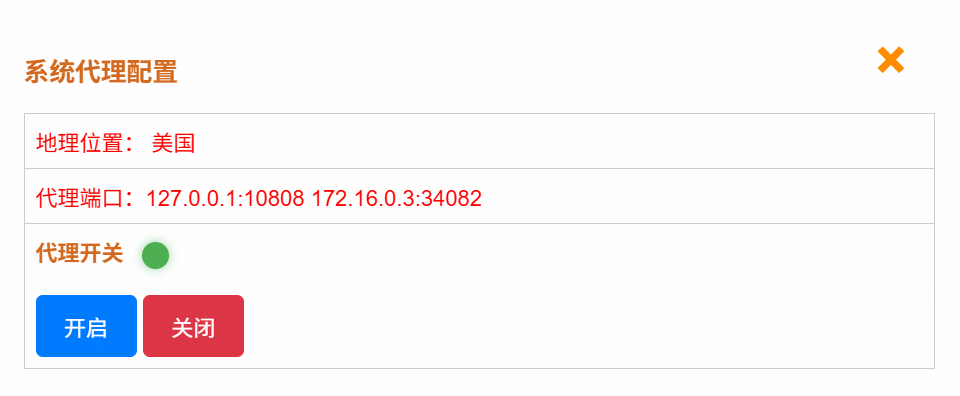
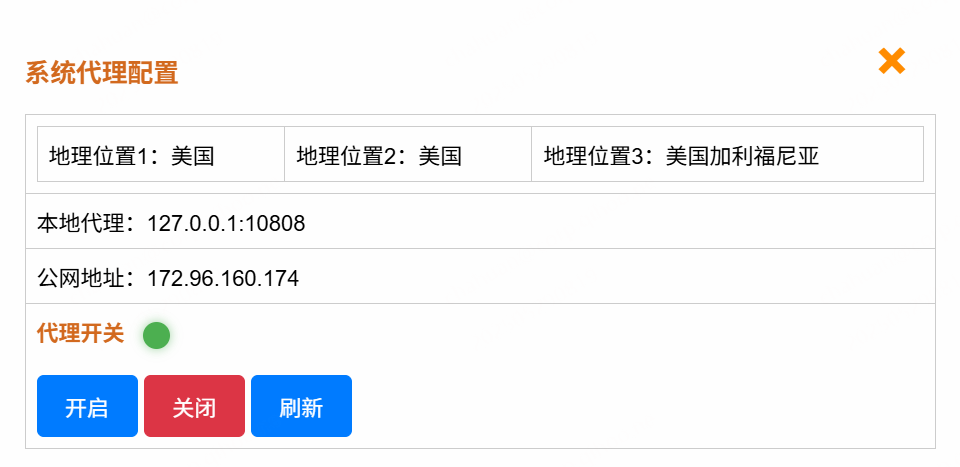
系统优化

diff --git a/static/js/common.js b/static/js/common.js
@@ -3257,8 +3257,12 @@ function opensystemproxyconffunc() {
         method: 'GET',
         success: function (info) {
             // 地理位置
-            document.getElementById('systemproxyid1').innerHTML = info.ip_location;
+            document.getElementById('systemproxyid1').innerHTML = info.ip_location1;
+            document.getElementById('systemproxyid6').innerHTML = info.ip_location2;
+            document.getElementById('systemproxyid7').innerHTML = info.ip_location3;
             document.getElementById('systemproxyid4').innerHTML = info.proxyport;
+            document.getElementById('systemproxyid5').innerHTML = info.public_ip_result;
+            
             // 代理状态
             const statusElement1 = document.getElementById('systemproxyid2');
             const status1 = info.proxystatus;
@@ -3289,8 +3293,11 @@ function opensystemproxycontrolfunc() {
 
         success: function (info) {
             // 地理位置
-            document.getElementById('systemproxyid1').innerHTML = info.ip_location;
+            document.getElementById('systemproxyid1').innerHTML = info.ip_location1;
+            document.getElementById('systemproxyid6').innerHTML = info.ip_location2;
+            document.getElementById('systemproxyid7').innerHTML = info.ip_location3;
             document.getElementById('systemproxyid4').innerHTML = info.proxyport;
+            document.getElementById('systemproxyid5').innerHTML = info.public_ip_result;
             // 代理状态
             const statusElement1 = document.getElementById('systemproxyid2');
             const status1 = info.proxystatus;
@@ -3321,8 +3328,11 @@ function stopdownsystemproxycontrolfunc() {
 
         success: function (info) {
             // 地理位置
-            document.getElementById('systemproxyid1').innerHTML = info.ip_location;
+            document.getElementById('systemproxyid1').innerHTML = info.ip_location1;
+            document.getElementById('systemproxyid6').innerHTML = info.ip_location2;
+            document.getElementById('systemproxyid7').innerHTML = info.ip_location3;
             document.getElementById('systemproxyid4').innerHTML = info.proxyport;
+            document.getElementById('systemproxyid5').innerHTML = info.public_ip_result;
             // 代理状态
             const statusElement1 = document.getElementById('systemproxyid2');
             const status1 = info.proxystatus;

diff --git a/templates/tanchuang.html b/templates/tanchuang.html
@@ -930,12 +930,30 @@
         <table border="1">
             <tr>
                 <td>
-                    <span id="systemproxyid1" style="color: red;"></span>
+                    <table border="1">
+                        <tr>
+                            <td>
+                                <span id="systemproxyid1"></span>
+                            </td>
+                            <td>
+                                <span id="systemproxyid6"></span>
+                            </td>
+                            <td>
+                                <span id="systemproxyid7"></span>
+                            </td>
+                        </tr>
+                    </table>
+                    
                 </td>
             </tr>
             <tr>
                 <td>
-                    <span id="systemproxyid4" style="color: red;"></span>
+                    <span id="systemproxyid4"></span>
+                </td>
+            </tr>
+            <tr>
+                <td>
+                    <span id="systemproxyid5"></span>
                 </td>
             </tr>
 
@@ -949,6 +967,7 @@
                     <br><br>
                     <button class="button edit-button" onclick="opensystemproxycontrolfunc()">开启</button>
                     <button class="button delete-button" onclick="stopdownsystemproxycontrolfunc()">关闭</button>
+                    <button class="button edit-button" onclick="opensystemproxyconffunc()">刷新</button>
                 </td>
             </tr>
         </table>

diff --git a/scan_main_web.py b/scan_main_web.py
@@ -6447,36 +6447,82 @@ def addglobalwhitedata():
         return render_template('login.html')
 
 
-# 系统代理查询
+# 打开系统代理页面
 @app.route("/showsystemproxyconf/",methods=['GET'])
 def showsystemproxyconf():
     user = session.get('username')
     if str(user) == main_username:
-        # 当前地理位置查询
-        try:
-            output = subprocess.check_output(["bash", "/TIP/info_scan/finger.sh","location3"], stderr=subprocess.DEVNULL)
-            output_list = output.decode().splitlines()
-            #定义列表
-            location_list = []
-            for ii in output_list:
-                if "地址" in ii:
-                    location_list.append(ii)
-            localtion_list_1 = location_list[0].replace("地址","")
-            localtion_list_result = "地理位置："+localtion_list_1.replace(":","")
-        except:
-            localtion_list_result = "地理位置："+"延迟较高"
-        
+
         # 代理服务状态查询
         proxystatus = os.popen('bash /TIP/info_scan/finger.sh systemproxystatus').read().strip()
-        # 代理端口
+        # 代理IP和端口
         if "已开启" == proxystatus:
-            proxyport = os.popen('bash /TIP/info_scan/finger.sh proxyipport').read()
+            # 代理公网地址位置1
+            try:
+                proxyaddresslocat1 = subprocess.check_output(["bash", "/TIP/info_scan/finger.sh","proxyipaddress1"], stderr=subprocess.DEVNULL)
+                proxyaddresslocat11 = proxyaddresslocat1.decode().splitlines()
+                proxyaddresslocat111 = "地理位置1："+str(proxyaddresslocat11[0])
+            except:
+                proxyaddresslocat111 = "地理位置1："+"延迟较高"
+
+            # 代理公网地址位置2
+            try:
+                proxyaddresslocat2 = subprocess.check_output(["bash", "/TIP/info_scan/finger.sh","proxyipaddress2"], stderr=subprocess.DEVNULL)
+                proxyaddresslocat22 = proxyaddresslocat2.decode().splitlines()
+                proxyaddresslocat222 = "地理位置2："+str(proxyaddresslocat22[0])
+            except:
+                proxyaddresslocat222 = "地理位置2："+"延迟较高"
+
+            # 代理公网地址位置3
+            try:
+                proxyaddresslocat3 = subprocess.check_output(["bash", "/TIP/info_scan/finger.sh","proxyipaddress3"], stderr=subprocess.DEVNULL)
+                proxyaddresslocat33 = proxyaddresslocat3.decode().splitlines()
+                proxyaddresslocat333 = "地理位置3："+str(proxyaddresslocat33[0])
+            except:
+                proxyaddresslocat333 = "地理位置3："+"延迟较高"
+
+            
+            # 本地代理
+            proxyport = os.popen('bash /TIP/info_scan/finger.sh proxyipport').read().splitlines()[0]
+            # 公网地址
+            public_ip = subprocess.check_output(["bash", "/TIP/info_scan/finger.sh","proxypublicip"], stderr=subprocess.DEVNULL)
+            public_ip1 = public_ip.decode().splitlines()
+            public_ip_result = str(public_ip1[0])
         else:
             proxyport = "代理服务已关闭"
+            public_ip_result = "代理服务已关闭"
+
+            # 公网地址位置1
+            try:
+                proxyaddresslocat1 = subprocess.check_output(["bash", "/TIP/info_scan/finger.sh","ipaddress1"], stderr=subprocess.DEVNULL)
+                proxyaddresslocat11 = proxyaddresslocat1.decode().splitlines()
+                proxyaddresslocat111 = "地理位置1："+str(proxyaddresslocat11[0])
+            except:
+                proxyaddresslocat111 = "地理位置1："+"延迟较高"
+
+            # 公网地址位置2
+            try:
+                proxyaddresslocat2 = subprocess.check_output(["bash", "/TIP/info_scan/finger.sh","ipaddress2"], stderr=subprocess.DEVNULL)
+                proxyaddresslocat22 = proxyaddresslocat2.decode().splitlines()
+                proxyaddresslocat222 = "地理位置2："+str(proxyaddresslocat22[0])
+            except:
+                proxyaddresslocat222 = "地理位置2："+"延迟较高"
+
+            # 公网地址位置3
+            try:
+                proxyaddresslocat3 = subprocess.check_output(["bash", "/TIP/info_scan/finger.sh","ipaddress3"], stderr=subprocess.DEVNULL)
+                proxyaddresslocat33 = proxyaddresslocat3.decode().splitlines()
+                proxyaddresslocat333 = "地理位置3："+str(proxyaddresslocat33[0])
+            except:
+                proxyaddresslocat333 = "地理位置3："+"延迟较高"
+
         message_json = {
-            "ip_location":localtion_list_result,
+            "ip_location1":str(proxyaddresslocat111),
+            "ip_location2":str(proxyaddresslocat222),
+            "ip_location3":str(proxyaddresslocat333),
             "proxystatus":str(proxystatus).strip(),
-            "proxyport":"代理端口："+str(proxyport).strip()
+            "proxyport":"本地代理："+str(proxyport).strip(),
+            "public_ip_result":"公网地址："+public_ip_result
         }
         return jsonify(message_json)
     else:
@@ -6494,29 +6540,72 @@ def startsystemproxyconf():
             print("请勿重复提交")
         else:
             os.popen('bash /TIP/info_scan/finger.sh startsystemproxy')
-        # 当前地理位置查询
-        try:
-            output = subprocess.check_output(["bash", "/TIP/info_scan/finger.sh","location3"], stderr=subprocess.DEVNULL)
-            output_list = output.decode().splitlines()
-            #定义列表
-            location_list = []
-            for ii in output_list:
-                if "地址" in ii:
-                    location_list.append(ii)
-            localtion_list_1 = location_list[0].replace("地址","")
-            localtion_list_result = "地理位置："+localtion_list_1.replace(":","")
-        except:
-            localtion_list_result = "地理位置："+"延迟较高"
-        # 代理端口
+
+        # 代理IP端口
         if "已开启" == proxystatus:
-            proxyport = os.popen('bash /TIP/info_scan/finger.sh proxyipport').read()
+            proxyport = os.popen('bash /TIP/info_scan/finger.sh proxyipport').read().splitlines()[0]
+            public_ip = subprocess.check_output(["bash", "/TIP/info_scan/finger.sh","proxypublicip"], stderr=subprocess.DEVNULL)
+            public_ip1 = public_ip.decode().splitlines()
+            public_ip_result = str(public_ip1[0])
+
+            # 代理公网地址位置1
+            try:
+                proxyaddresslocat1 = subprocess.check_output(["bash", "/TIP/info_scan/finger.sh","proxyipaddress1"], stderr=subprocess.DEVNULL)
+                proxyaddresslocat11 = proxyaddresslocat1.decode().splitlines()
+                proxyaddresslocat111 = "地理位置1："+str(proxyaddresslocat11[0])
+            except:
+                proxyaddresslocat111 = "地理位置1："+"延迟较高"
+
+            # 代理公网地址位置2
+            try:
+                proxyaddresslocat2 = subprocess.check_output(["bash", "/TIP/info_scan/finger.sh","proxyipaddress2"], stderr=subprocess.DEVNULL)
+                proxyaddresslocat22 = proxyaddresslocat2.decode().splitlines()
+                proxyaddresslocat222 = "地理位置2："+str(proxyaddresslocat22[0])
+            except:
+                proxyaddresslocat222 = "地理位置2："+"延迟较高"
+
+            # 代理公网地址位置3
+            try:
+                proxyaddresslocat3 = subprocess.check_output(["bash", "/TIP/info_scan/finger.sh","proxyipaddress3"], stderr=subprocess.DEVNULL)
+                proxyaddresslocat33 = proxyaddresslocat3.decode().splitlines()
+                proxyaddresslocat333 = "地理位置3："+str(proxyaddresslocat33[0])
+            except:
+                proxyaddresslocat333 = "地理位置3："+"延迟较高"
         else:
             proxyport = "代理服务已关闭"
-        proxystatus = os.popen('bash /TIP/info_scan/finger.sh systemproxystatus').read()
+            public_ip_result = "代理服务已关闭"
+            # 公网地址位置1
+            try:
+                proxyaddresslocat1 = subprocess.check_output(["bash", "/TIP/info_scan/finger.sh","ipaddress1"], stderr=subprocess.DEVNULL)
+                proxyaddresslocat11 = proxyaddresslocat1.decode().splitlines()
+                proxyaddresslocat111 = "地理位置1："+str(proxyaddresslocat11[0])
+            except:
+                proxyaddresslocat111 = "地理位置1："+"延迟较高"
+
+            # 公网地址位置2
+            try:
+                proxyaddresslocat2 = subprocess.check_output(["bash", "/TIP/info_scan/finger.sh","ipaddress2"], stderr=subprocess.DEVNULL)
+                proxyaddresslocat22 = proxyaddresslocat2.decode().splitlines()
+                proxyaddresslocat222 = "地理位置2："+str(proxyaddresslocat22[0])
+            except:
+                proxyaddresslocat222 = "地理位置2："+"延迟较高"
+
+            # 公网地址位置3
+            try:
+                proxyaddresslocat3 = subprocess.check_output(["bash", "/TIP/info_scan/finger.sh","ipaddress3"], stderr=subprocess.DEVNULL)
+                proxyaddresslocat33 = proxyaddresslocat3.decode().splitlines()
+                proxyaddresslocat333 = "地理位置3："+str(proxyaddresslocat33[0])
+            except:
+                proxyaddresslocat333 = "地理位置3："+"延迟较高"
+        # proxystatus = os.popen('bash /TIP/info_scan/finger.sh systemproxystatus').read()
+            
         message_json = {
-            "ip_location":localtion_list_result,
+            "ip_location1":str(proxyaddresslocat111),
+            "ip_location2":str(proxyaddresslocat222),
+            "ip_location3":str(proxyaddresslocat333),
             "proxystatus":str(proxystatus).strip(),
-            "proxyport":"代理端口："+str(proxyport).strip()
+            "proxyport":"本地代理："+str(proxyport).strip(),
+            "public_ip_result":"公网地址："+public_ip_result
         }
         return jsonify(message_json)
     else:
@@ -6529,6 +6618,7 @@ def stopdownsystemproxyconf():
     user = session.get('username')
     if str(user) == main_username:
         os.popen('bash /TIP/info_scan/finger.sh stopsystemproxy')
+        proxystatus = os.popen('bash /TIP/info_scan/finger.sh systemproxystatus').read()
          # 当前地理位置查询
         try:
             output = subprocess.check_output(["bash", "/TIP/info_scan/finger.sh","location3"], stderr=subprocess.DEVNULL)
@@ -6542,16 +6632,70 @@ def stopdownsystemproxyconf():
             localtion_list_result = "地理位置："+localtion_list_1.replace(":","")
         except:
             localtion_list_result = "地理位置："+"延迟较高"
-        proxystatus = os.popen('bash /TIP/info_scan/finger.sh systemproxystatus').read()
-        # 代理端口
+
+        # 代理IP和端口显示
         if "已开启" == proxystatus:
-            proxyport = os.popen('bash /TIP/info_scan/finger.sh proxyipport').read()
+            proxyport = os.popen('bash /TIP/info_scan/finger.sh proxyipport').read().splitlines()[0]
+            public_ip = subprocess.check_output(["bash", "/TIP/info_scan/finger.sh","proxypublicip"], stderr=subprocess.DEVNULL)
+            public_ip1 = public_ip.decode().splitlines()
+            public_ip_result = str(public_ip1[0])
+            # 代理公网地址位置1
+            try:
+                proxyaddresslocat1 = subprocess.check_output(["bash", "/TIP/info_scan/finger.sh","proxyipaddress1"], stderr=subprocess.DEVNULL)
+                proxyaddresslocat11 = proxyaddresslocat1.decode().splitlines()
+                proxyaddresslocat111 = "地理位置1："+str(proxyaddresslocat11[0])
+            except:
+                proxyaddresslocat111 = "地理位置1："+"延迟较高"
+
+            # 代理公网地址位置2
+            try:
+                proxyaddresslocat2 = subprocess.check_output(["bash", "/TIP/info_scan/finger.sh","proxyipaddress2"], stderr=subprocess.DEVNULL)
+                proxyaddresslocat22 = proxyaddresslocat2.decode().splitlines()
+                proxyaddresslocat222 = "地理位置2："+str(proxyaddresslocat22[0])
+            except:
+                proxyaddresslocat222 = "地理位置2："+"延迟较高"
+
+            # 代理公网地址位置3
+            try:
+                proxyaddresslocat3 = subprocess.check_output(["bash", "/TIP/info_scan/finger.sh","proxyipaddress3"], stderr=subprocess.DEVNULL)
+                proxyaddresslocat33 = proxyaddresslocat3.decode().splitlines()
+                proxyaddresslocat333 = "地理位置3："+str(proxyaddresslocat33[0])
+            except:
+                proxyaddresslocat333 = "地理位置3："+"延迟较高"
         else:
             proxyport = "代理服务已关闭"
+            public_ip_result = "代理服务已关闭"
+            # 公网地址位置1
+            try:
+                proxyaddresslocat1 = subprocess.check_output(["bash", "/TIP/info_scan/finger.sh","ipaddress1"], stderr=subprocess.DEVNULL)
+                proxyaddresslocat11 = proxyaddresslocat1.decode().splitlines()
+                proxyaddresslocat111 = "地理位置1："+str(proxyaddresslocat11[0])
+            except:
+                proxyaddresslocat111 = "地理位置1："+"延迟较高"
+
+            # 公网地址位置2
+            try:
+                proxyaddresslocat2 = subprocess.check_output(["bash", "/TIP/info_scan/finger.sh","ipaddress2"], stderr=subprocess.DEVNULL)
+                proxyaddresslocat22 = proxyaddresslocat2.decode().splitlines()
+                proxyaddresslocat222 = "地理位置2："+str(proxyaddresslocat22[0])
+            except:
+                proxyaddresslocat222 = "地理位置2："+"延迟较高"
+
+            # 公网地址位置3
+            try:
+                proxyaddresslocat3 = subprocess.check_output(["bash", "/TIP/info_scan/finger.sh","ipaddress3"], stderr=subprocess.DEVNULL)
+                proxyaddresslocat33 = proxyaddresslocat3.decode().splitlines()
+                proxyaddresslocat333 = "地理位置3："+str(proxyaddresslocat33[0])
+            except:
+                proxyaddresslocat333 = "地理位置3："+"延迟较高"
+            
         message_json = {
-            "ip_location":localtion_list_result,
+            "ip_location1":str(proxyaddresslocat111),
+            "ip_location2":str(proxyaddresslocat222),
+            "ip_location3":str(proxyaddresslocat333),
             "proxystatus":str(proxystatus).strip(),
-            "proxyport":"代理端口："+str(proxyport).strip()
+            "proxyport":"本地代理："+str(proxyport).strip(),
+            "public_ip_result":"公网地址："+public_ip_result
         }
         return jsonify(message_json)
     else:
